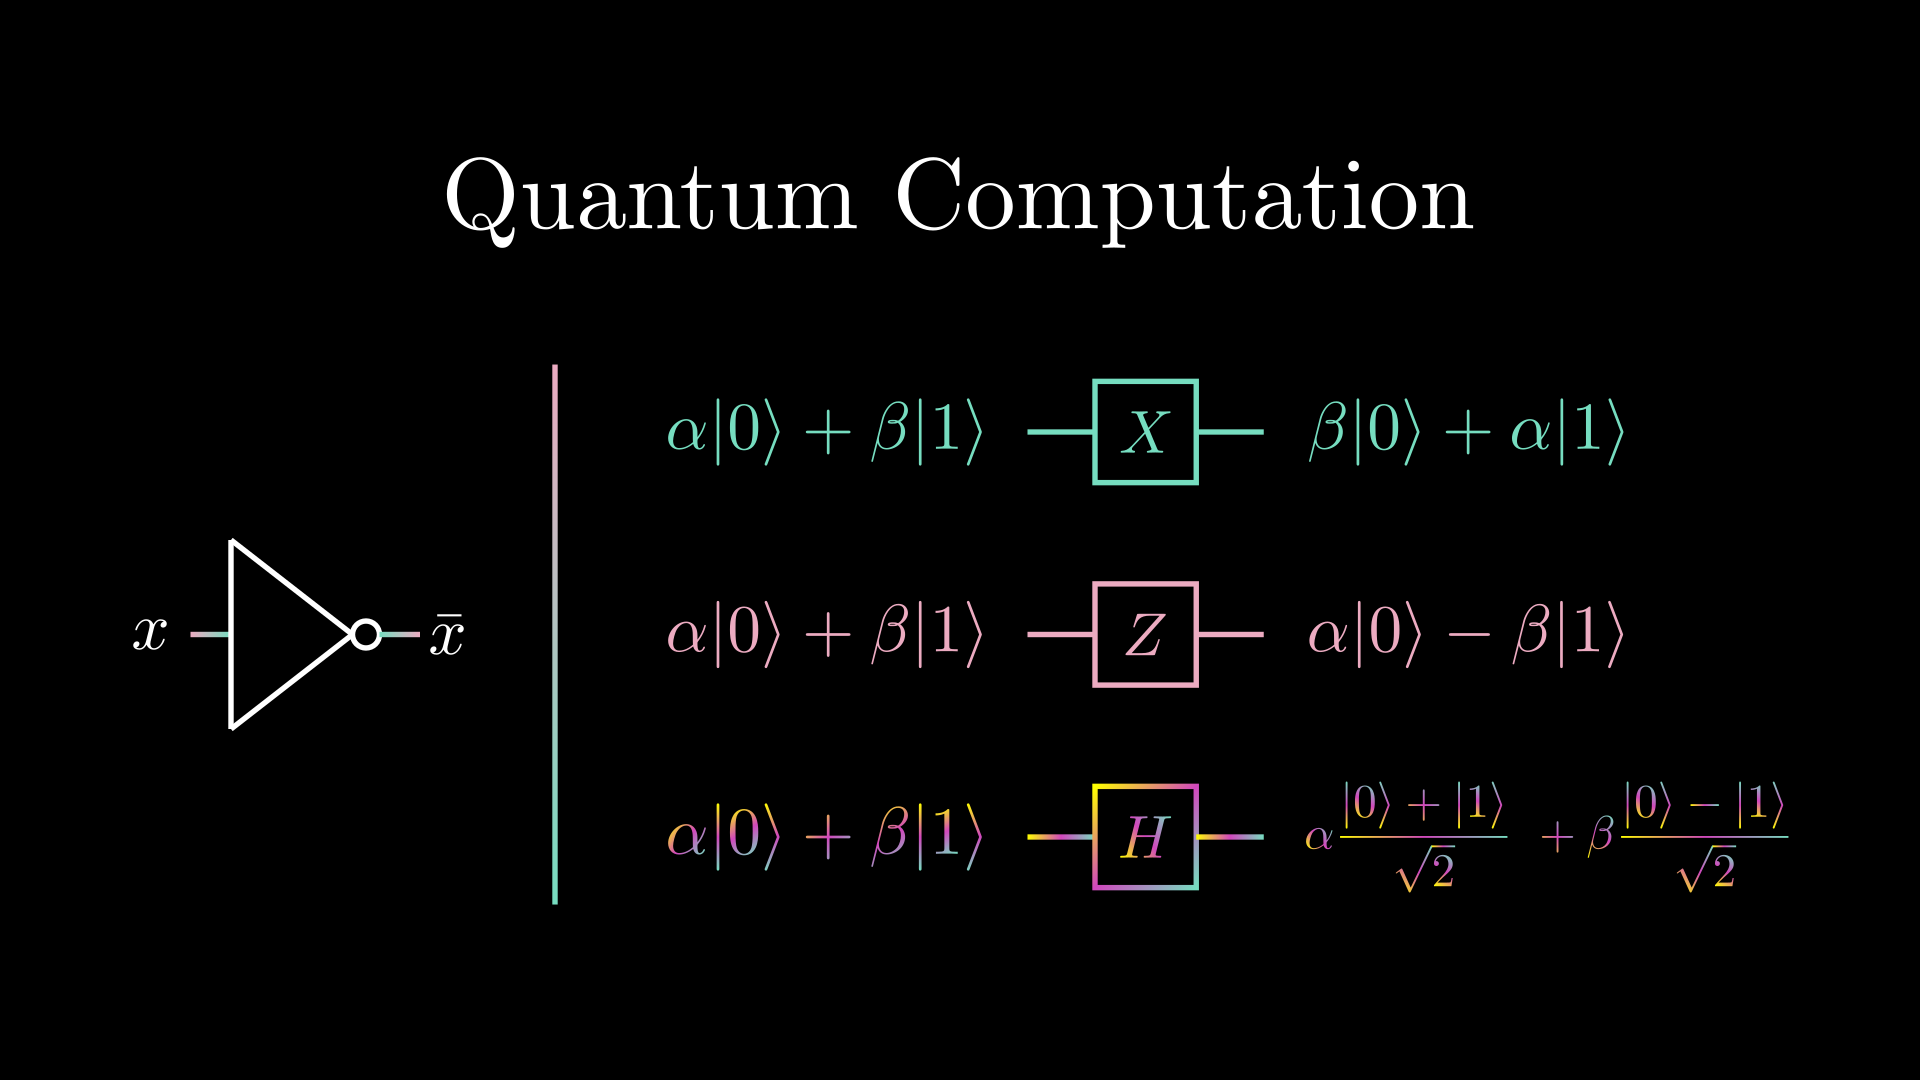
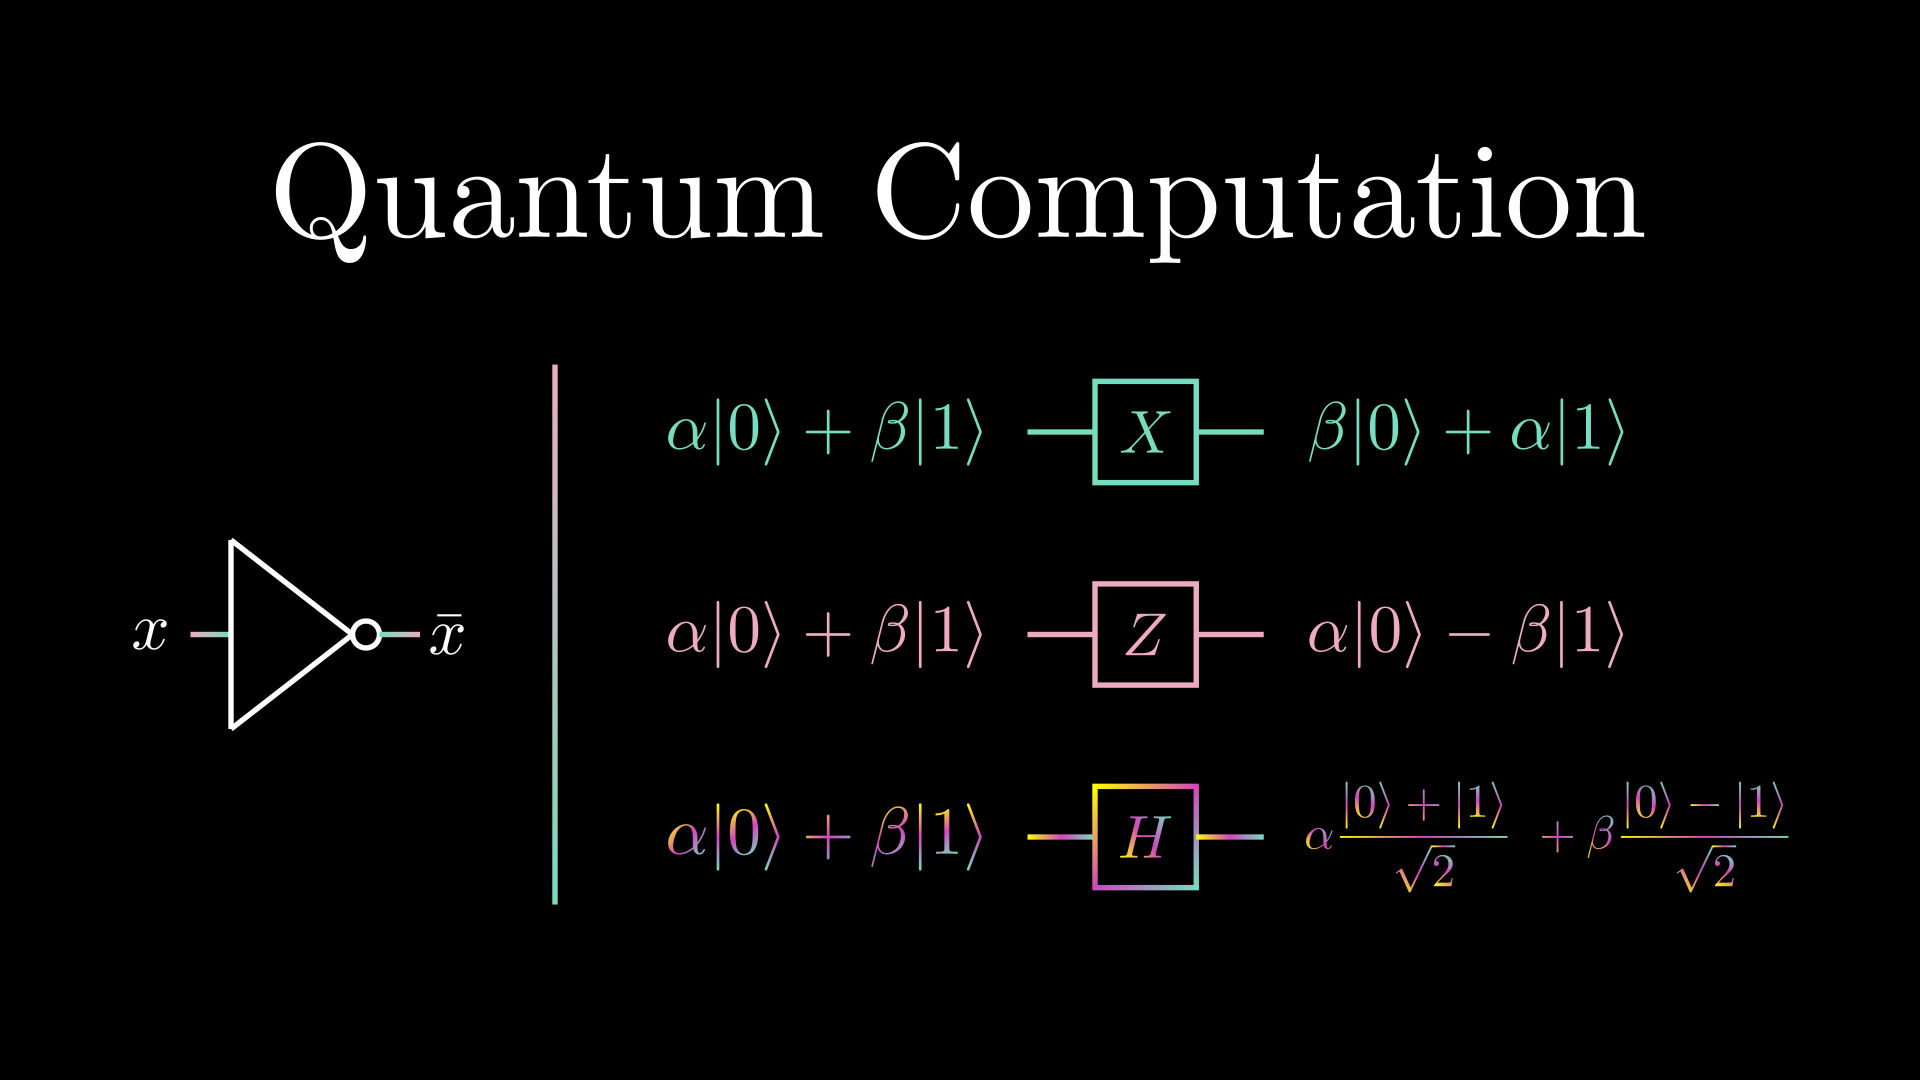
Quantum Computing 2: Intro to Quantum Computation Final

Changed region(s): [[0.125, 0.1222, 0.875, 0.2444]]

diff --git a/quantum_computing/computation_intro.py b/quantum_computing/computation_intro.py
@@ -806,7 +806,7 @@ class Thumbnail(Scene):
 
         group.shift(DOWN*0.7)
 
-        Quantum_Computation = Tex(r"Quantum Computation").move_to([0, 2.5, 0]).scale(1.5)
+        Quantum_Computation = Tex(r"Quantum Computation").move_to([0, 2.5, 0]).scale(2)
 
    
         self.add(group, Quantum_Computation)
